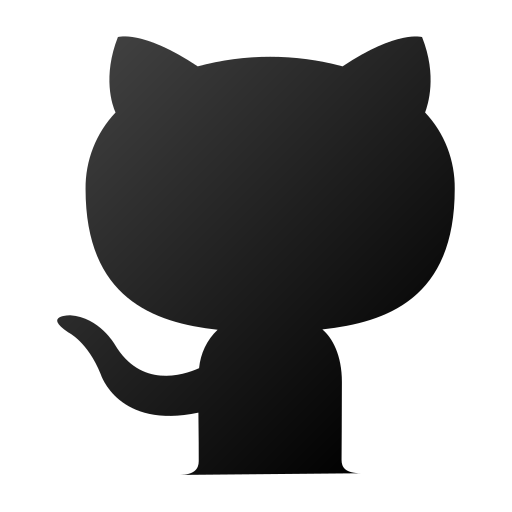
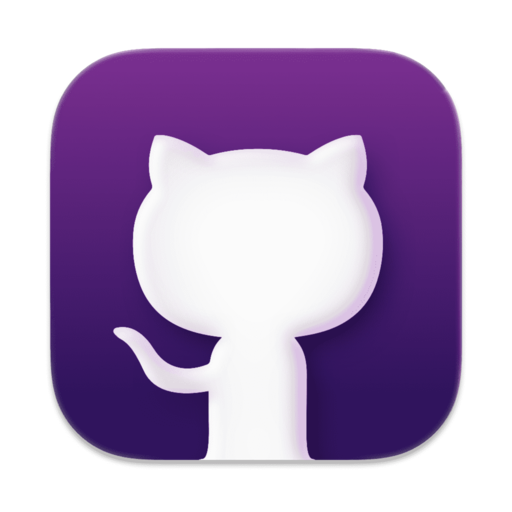
feat: Melhorando responsabilidade da sessão sobre mim
Trocando ícone do github

diff --git a/style.css b/style.css
@@ -229,10 +229,11 @@ header nav ul {
         width: 25px;
         height: 25px;
     }
+    
     .img-networking {
-        background-color: #fff;
-        padding: 2px;
-        border-radius: 50%;
+        width: 30px;
+        height: 30px;
+        margin: -2.5px;
     }
 }
 
@@ -671,11 +672,6 @@ footer {
         text-align: justify;
     }
 
-    .description p {
-
-            width: 250px;
-        
-    }
 
     .description-text-end {
         width: 100%;

diff --git a/index.html b/index.html
@@ -143,7 +143,7 @@
         </div>
 
         <div class="contact">
-            <div id="inicial-text" onClick="showText()">
+            <div class="shine-cursor" id="inicial-text" onClick="showText()">
                 <p>BUSCANDO UM ESTAGIÁRIO!</p>
                 <h2>Vamos trabalhar Juntos →</h2>
             </div>
